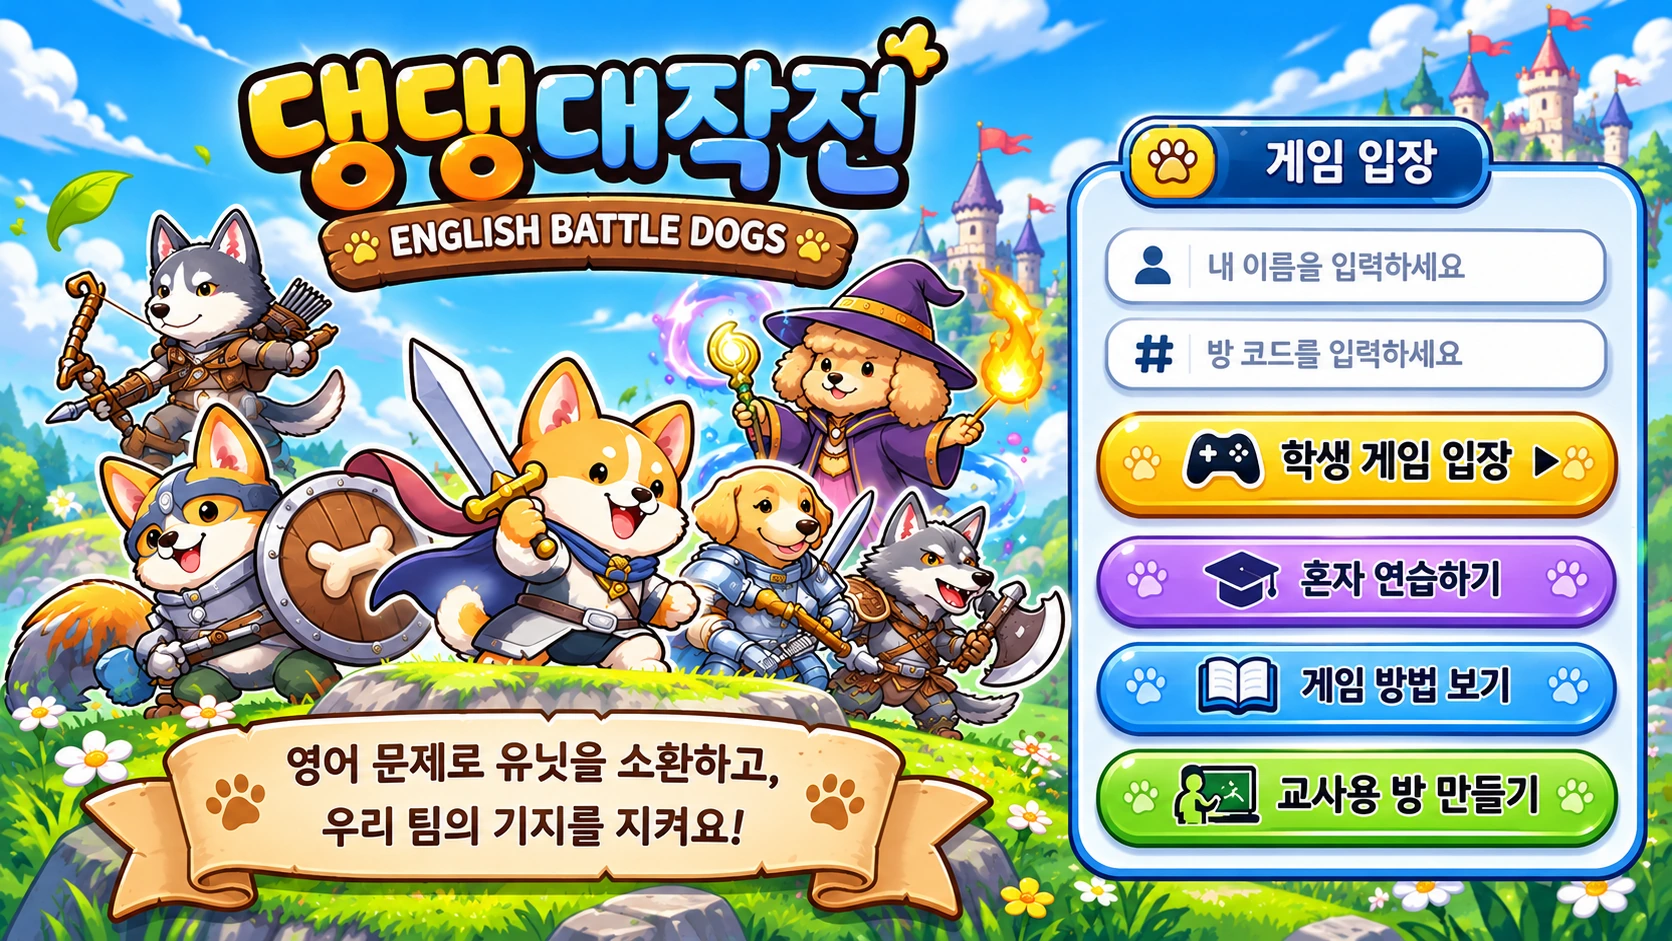
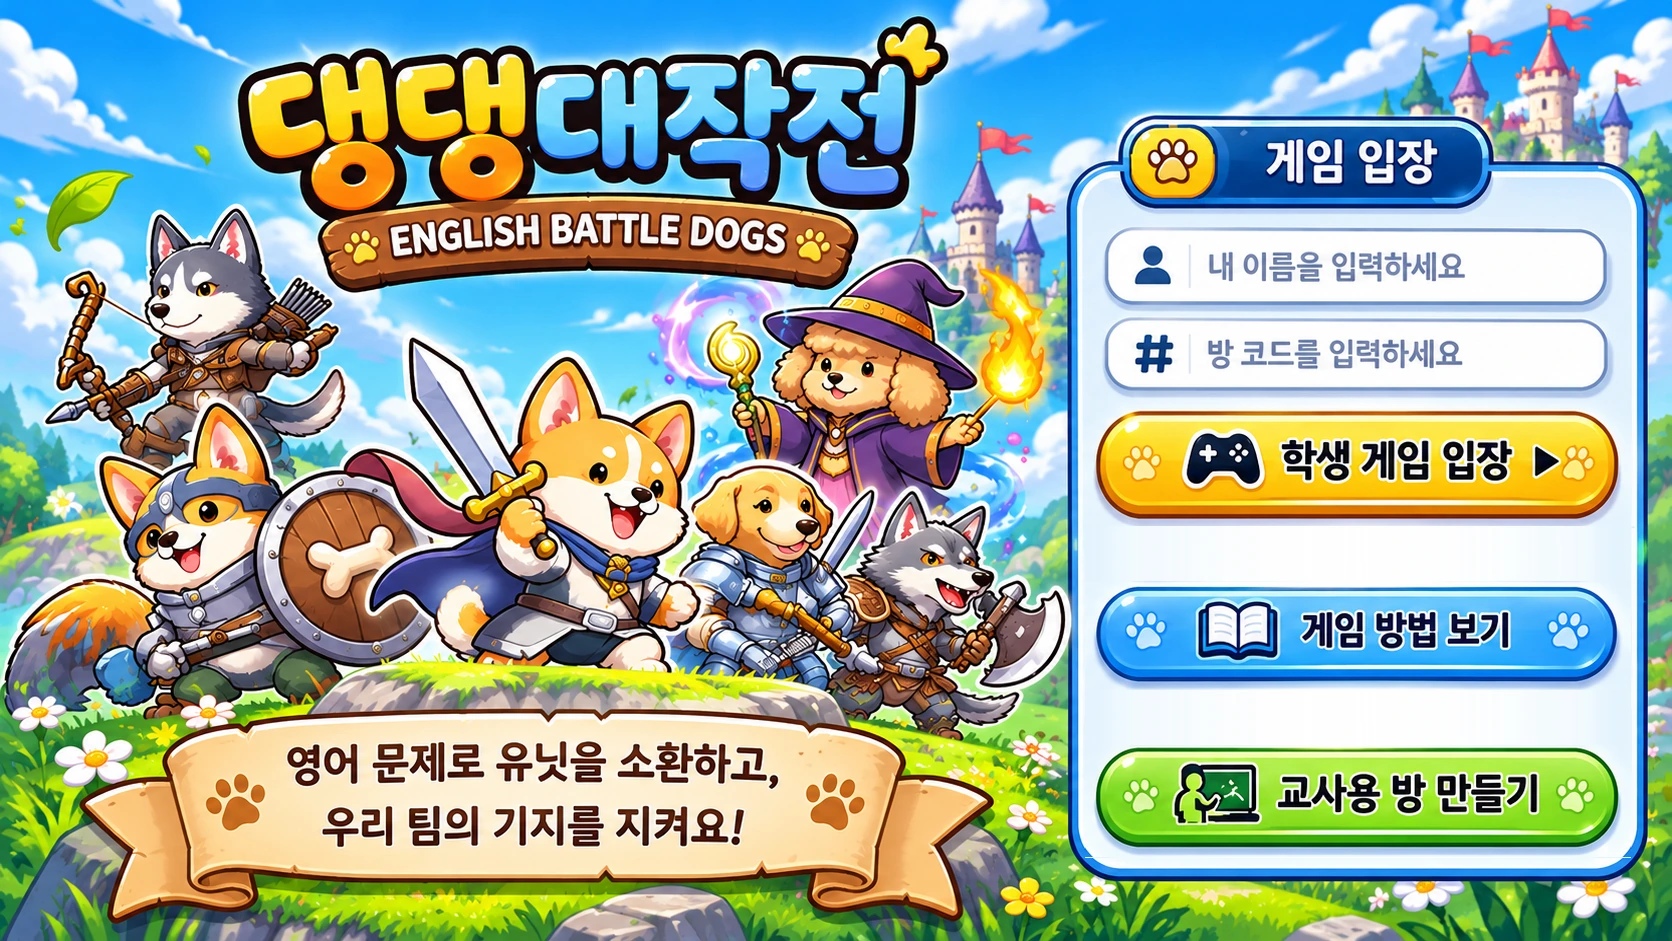
시작 화면에서 '혼자 연습하기' 버튼 제거
Claude-Session: https://claude.ai/code/session_01EGvFwZBsvv9h6b7CC9u835

Changed region(s): [[0.6531, 0.5547, 0.9952, 0.9245]]

diff --git a/client/src/main.jsx b/client/src/main.jsx
@@ -16,7 +16,7 @@ const emit=(ev,data,callback)=>{if(local.current)return local.current.emit(ev,da
  if(typeof callback!=='function'){socket.emit(ev,data);return}
  let done=false;const t=setTimeout(()=>{if(!done){done=true;setError('서버가 응답하지 않아요. 잠시 뒤 다시 눌러 주세요. (무료 서버는 깨어나는 데 1분쯤 걸려요)')}},7000);
  socket.emit(ev,data,(...a)=>{if(done)return;done=true;clearTimeout(t);callback(...a)})};const enter=(isTeacher)=>{who.current.name=name.trim();if(!isTeacher&&!name.trim()){setError('이름을 입력하세요.');return}if(isTeacher){if(!pin.trim()){setError('교사 PIN을 입력하세요.');return}emit('createRoom',{name:name.trim()||'선생님',mode,pin},d=>d?.error&&setError(d.error))}else {const code=roomInput.trim().toUpperCase();const sessionToken=localStorage.getItem('dd-session-'+code);emit('joinRoom',{name,room:code,bonusGold:PF.bonusGold(prof.level),...(sessionToken?{sessionToken}:{})},d=>{if(d?.error){if(d.staleToken)localStorage.removeItem('dd-session-'+code);setError(d.error)}})}};
-const studentEnter=()=>{if(!name.trim()){setError('이름을 입력하세요.');return}if(!roomInput.trim()){setError('방 코드를 입력하세요. (혼자 하려면 \'혼자 연습하기\')');return}setError('');enter(false)};
+const studentEnter=()=>{if(!name.trim()){setError('이름을 입력하세요.');return}if(!roomInput.trim()){setError('방 코드를 입력하세요. (선생님이 알려 준 6자리)');return}setError('');enter(false)};
 /* 🎮 혼자 연습: 방 코드·교사 없이 바로 개인전 */
 const soloPlay=()=>{who.current.name=name.trim();if(!name.trim()){setError('이름을 입력하세요.');return}setError('');setOverlay('stages')};
 /* 🗺 스테이지를 골라 혼자 연습 시작 (서버 없이 이 기기에서) */
@@ -46,17 +46,16 @@ return <div className="app"><header><div className="brand"><img className="logo"
   <input className="sentry sname" value={name} onChange={e=>setName(e.target.value)} placeholder="내 이름을 입력하세요" maxLength={16} aria-label="학생 이름"/>
   <input className="sentry sroom" value={roomInput} onChange={e=>setRoomInput(e.target.value.toUpperCase())} placeholder="방 코드를 입력하세요" maxLength={6} aria-label="방 코드" onKeyDown={e=>e.key==='Enter'&&studentEnter()}/>
   <button className="shit s-student" onClick={studentEnter} aria-label="학생 게임 입장"/>
-  <button className="shit s-practice" onClick={soloPlay} aria-label="혼자 연습하기"/>
   <button className="shit s-how" onClick={()=>{setError('');setHomeMode('how')}} aria-label="게임 방법 보기"/>
   <button className="shit s-teacher" onClick={()=>{setError('');setMode('solo');setHomeMode('teacher')}} aria-label="교사용 방 만들기"/>
   {name.trim()&&<div className="sprof"><b>LV {prof.level}</b><i className="xpbar"><i style={{width:Math.min(100,prof.xp/PF.needFor(prof.level)*100)+'%'}}/></i><span className="pcoins"><img src="/ui/coin.png" alt=""/>{prof.coins}</span><button onClick={()=>setOverlay('deck')}>🃏 카드덱</button><button onClick={()=>setOverlay('shop')}>🛒 상점</button></div>}
   {error&&!homeMode&&<p className="serror" onClick={()=>setError('')}>⚠ {error}</p>}
-  {!error&&!homeMode&&!connected&&offlineHint&&<p className="serror soff">📴 서버 없이 열렸어요 · 혼자 연습하기는 바로 할 수 있어요</p>}
+  {!error&&!homeMode&&!connected&&offlineHint&&<p className="serror soff">📴 게임 서버에 연결되지 않았어요 · 교사 PC나 Render 주소로 열어 주세요</p>}
  </div>
  {homeMode&&<div className="smodal" onClick={e=>{if(e.target===e.currentTarget){setError('');setHomeMode('')}}}><section className={"panel login modepanel mp-"+homeMode}>
   <div className="mphead"><h3>{{how:'📖 게임 방법',teacher:'🧑🏫 교사용 방 만들기'}[homeMode]}</h3><button className="xbtn" onClick={()=>{setError('');setHomeMode('')}}>✕</button></div>
-  {homeMode==='how'&&<div className="howto"><p>🧠 <b>영어 문제</b>를 맞히면 <b>코인</b>이 모여요.</p><p>🐶 코인으로 <b>댕댕이 용사</b>를 소환해 적 기지를 공격해요.</p><p>🏰 우리 기지를 지키고 상대 기지를 먼저 무너뜨리면 승리! 한 판은 10분이에요.</p><p>🎓 <b>혼자 연습하기</b>: 방 코드 없이 스테이지를 골라 혼자 도전해요. 스테이지를 깨면 다음 스테이지가 열려요.</p><p>🎮 <b>학생 게임 입장</b>: 선생님이 알려 준 6자리 방 코드로 팀전·협동전에 참가해요.</p><p>⭐ 이기면 경험치와 코인을 받아 레벨이 오르고, 🛒 상점에서 아이템과 카드를 살 수 있어요.</p></div>}
-  {homeMode==='teacher'&&<><label>게임 방식</label><div className="modepick">{[['solo','개인전','각자 AI와 전투'],['pvp','팀전','5:5 팀 대항전'],['coop','협동전','5인 협동 방어']].map(([v,t,d])=><button key={v} className={mode===v?'on':''} onClick={()=>setMode(v)}><b>{t}</b><small>{d}</small></button>)}</div><label>교사 PIN</label><input type="password" value={pin} onChange={e=>setPin(e.target.value)} placeholder="교사 전용 PIN" onKeyDown={e=>e.key==='Enter'&&enter(true)}/><button className="primary" onClick={()=>enter(true)}>방 만들기</button>{!connected&&offlineHint&&<p className="notice">⚠ 게임 서버에 연결되지 않았어요. 개인전(혼자 도전)은 지금 바로 할 수 있어요. 팀전·협동전·교사 모드는 게임 서버 주소(교사 PC의 Windows_실행.bat 주소 또는 Render 주소)에서 열어야 해요.</p>}</>}
+  {homeMode==='how'&&<div className="howto"><p>🧠 <b>영어 문제</b>를 맞히면 <b>코인</b>이 모여요.</p><p>🐶 코인으로 <b>댕댕이 용사</b>를 소환해 적 기지를 공격해요.</p><p>🏰 우리 기지를 지키고 상대 기지를 먼저 무너뜨리면 승리! 한 판은 10분이에요.</p><p>🎮 <b>학생 게임 입장</b>: 내 이름과 선생님이 알려 준 6자리 방 코드를 쓰고 들어가요. 게임이 이미 시작했어도 바로 참가돼요.</p><p>⭐ 이기면 경험치와 코인을 받아 레벨이 오르고, 🛒 상점에서 아이템과 카드를 살 수 있어요.</p></div>}
+  {homeMode==='teacher'&&<><label>게임 방식</label><div className="modepick">{[['solo','개인전','각자 AI와 전투'],['pvp','팀전','5:5 팀 대항전'],['coop','협동전','5인 협동 방어']].map(([v,t,d])=><button key={v} className={mode===v?'on':''} onClick={()=>setMode(v)}><b>{t}</b><small>{d}</small></button>)}</div><label>교사 PIN</label><input type="password" value={pin} onChange={e=>setPin(e.target.value)} placeholder="교사 전용 PIN" onKeyDown={e=>e.key==='Enter'&&enter(true)}/><button className="primary" onClick={()=>enter(true)}>방 만들기</button>{!connected&&offlineHint&&<p className="notice">⚠ 게임 서버에 연결되지 않았어요. 팀전·협동전·교사 모드는 게임 서버 주소(교사 PC의 Windows_실행.bat 주소 또는 Render 주소)에서 열어야 해요.</p>}</>}
   {error&&<p className="notice">{error}</p>}
  </section></div>}
 </main>:<main className={"game"+(lobby?.started&&!teacher?" ingame":"")}><section className="topstats"><div className="stat"><small>전투 방식</small><b>{lobby?.practice?'혼자 연습':mode==='solo'?'개인전':mode==='coop'?'협동 팀전':'팀 대항전'}</b></div><div className="stat"><small>남은 시간</small><b>{fmt(state?.remaining??600)}</b></div><div className="stat"><small>현재 웨이브</small><b>{state?.wave||0}</b></div><div className="stat"><small>참가 인원</small><b>{members.filter(x=>!x.teacher).length}/30</b></div></section>

diff --git a/client/src/style.css b/client/src/style.css
@@ -430,3 +430,7 @@ body:has(.start-screen) footer{display:none}
 .sscreen .sentry:focus{box-shadow:inset 0 0 0 .18cqw #ffc638!important}
 .sscreen .sname{top:24.98%!important}
 .sscreen .sroom{top:34.54%!important}
+/* 22-3: '혼자 연습하기' 버튼을 빼고 두 버튼을 고르게 다시 배치 */
+.sscreen .s-student{top:43.7%;height:11%}
+.sscreen .s-how{top:61.9%;height:11.2%}
+.sscreen .s-teacher{top:79.4%;height:11.6%}

diff --git a/README_22단계_시작화면.md b/README_22단계_시작화면.md
@@ -23,3 +23,7 @@
   팀원이 늘면 적 기지 체력도 늘지만, 지금 깎인 비율은 그대로라서 갑자기 회복되지 않아요.
 - 팀 대항전: 진행 중인 대결에서 인원이 적은 쪽 팀에 들어가요.
 - 게임 중에 끊긴 학생이 같은 이름으로 다시 들어오면 원래 팀·전투로 돌아가요.
+
+## 22-3: '혼자 연습하기' 버튼 빼기
+- 시작 화면 그림에서 보라색 '혼자 연습하기' 버튼을 지우고, '게임 방법 보기'·'교사용 방 만들기'를 고르게 다시 배치했어요.
+- 학생은 이름 + 방 코드로만 들어와요. (개인전은 교사가 방을 만들 때 '개인전'을 고르면 돼요)
